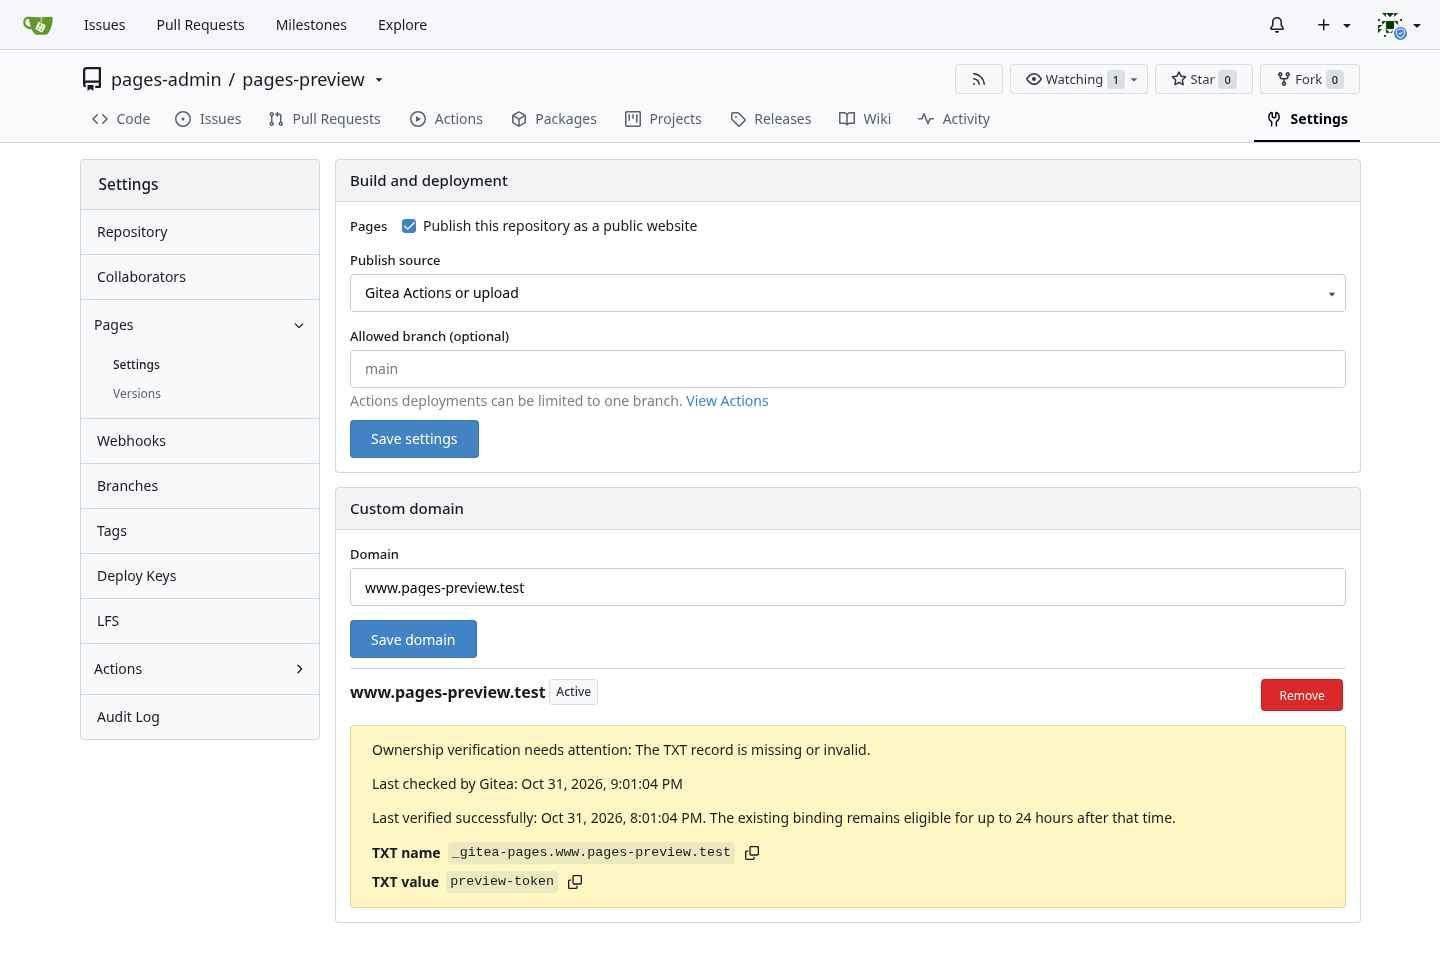
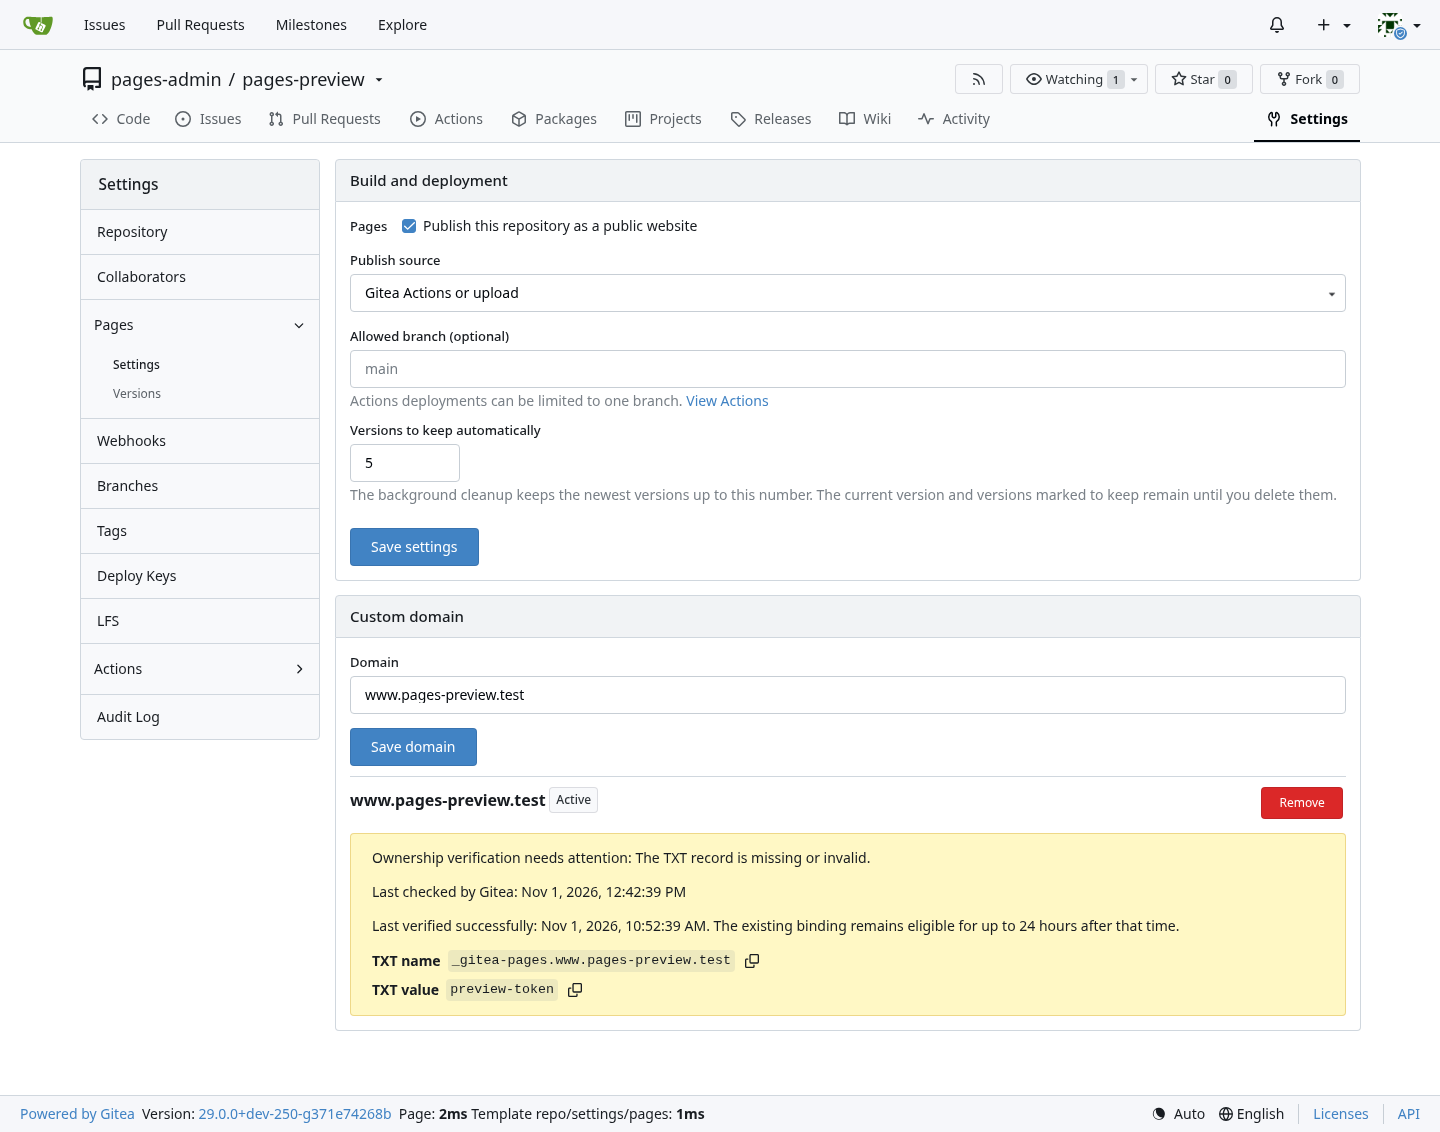
chore: update Pages version management
Update the implementation pointers, design documentation, PR description, and current UI screenshots for repository retention and version metadata.

Assisted-by: Codex:GPT-6

diff --git a/src/pages/implementation.md b/src/pages/implementation.md
@@ -47,7 +47,7 @@ Pages 使用 `github.com/go-acme/lego/v5` 实现 ACME，并通过 lego provider 
 ### 实现验收点
 
 - `Service` 与 `Publisher` 的职责可以独立测试，外部发布器无需重复同步和归档安全逻辑。
-- `Publisher.Restore` 以迭代器提供本机确认部署，大量站点不需要复制为完整切片。
+- `Publisher.Restore` 以迭代器提供本机确认部署，使恢复过程的额外内存保持稳定。
 - 队列项执行时读取最新事实，同一仓库调用串行，不同仓库按配置并行。
 - 工作目录在持锁后重建，已确认站点目录保持不变。
 - 发布错误保留旧入口；成功发布替代内容后只保留当前摘要目录。
@@ -60,26 +60,27 @@ Gitea 侧沿用现有分层：`models/pages` 负责五张表和稳定查询，`m
 
 `services/pages/address.go` 集中处理所有者 DNS 标签、实例根地址、自定义 Host 规范化和域名命名空间冲突。域名使用 `golang.org/x/net/idna` 查询映射、双向文字和 DNS 长度检查；Pages 服务只补充多标签、IP 地址和平台命名空间规则。仓库设置页、版本页、实例登记和域名登记因此使用同一套地址函数。
 
-`settings.go` 处理站点开关和自动发布来源，`publish.go` 处理成品检查、版本提交、恢复、删除和保留。两者复用同一个仓库站点锁和站点更新时间。成品写入存储前与选择当前版本的事务内使用同一套仓库和站点状态判断，使归档、删除或来源切换期间完成的旧任务得到一致结果。仓库关闭、改名、转移、所有者改名和删除通过对应服务事务推进站点时间，使仓库变化与 Pages 通知使用同一提交顺序。
+`settings.go` 处理站点开关、自动发布来源和仓库版本保留数量，`publish.go` 处理成品检查、版本提交、恢复和删除，`version_metadata.go` 处理版本注释与长期保留标记，`cleanup.go` 由计划任务执行版本清理。它们复用同一个仓库站点锁；只有会改变实例目标的操作推进站点时间。成品写入存储前与选择当前版本的事务内使用同一套仓库和站点状态判断，使归档、删除或来源切换期间完成的旧任务得到一致结果。仓库关闭、改名、转移、所有者改名和删除通过对应服务事务推进站点时间，使仓库变化与 Pages 通知使用同一提交顺序。
 
-`modules/setting` 保存归档大小、条目数、版本保留数、批量大小、TXT 周期和 DNS 地址等启动配置。`services/pages` 把资源字段组装为 `modules/pages.Limits`。内容使用 Gitea storage 抽象，临时上传使用 Gitea Dropzone 和临时上传模型，仓库提交使用现有锁抽象；实例凭据复用安全随机数、HTTP Authorization、SHA-256 和恒定时间比较工具。
+`modules/setting` 保存归档大小、条目数、批量大小、TXT 周期和 DNS 地址等启动配置；每个仓库的版本保留数量保存在 `pages_site`，让仓库管理员按回滚需求配置。`services/pages` 把资源字段组装为 `modules/pages.Limits`。内容使用 Gitea storage 抽象，临时上传使用 Gitea Dropzone 和临时上传模型，仓库提交使用现有锁抽象；实例凭据复用安全随机数、HTTP Authorization、SHA-256 和恒定时间比较工具。
 
-Pages 内容 API 和网页共用版本服务。版本列表按 ID 倒序使用 Gitea 标准分页，并批量读取当前页的 Actions 来源。设置页只读取来源、来源错误和域名配置；版本页展示摘要、首次来源、创建时间与 Current 状态，Current 可查看实例详情或删除，历史版本可恢复或删除。全局管理页使用标准管理表格显示实例 ID、公开根地址、最近通信时间和紧凑操作。
+Pages 内容 API 和网页共用版本服务。版本列表按 ID 倒序使用 Gitea 标准分页，并批量读取当前页的 Actions 来源。设置页读取来源、仓库保留数量、来源错误和域名配置；版本页展示摘要、首次来源、创建时间、注释、长期保留标记与 Current 状态。版本元数据通过同一服务和仓库锁修改，不产生同步更新；Current 可查看实例详情或删除，历史版本可恢复或删除。全局管理页使用标准管理表格显示实例 ID、公开根地址、最近通信时间和紧凑操作。
 
 实例创建和重置使用 POST 后重定向到 GET。一次性明文令牌暂存在当前管理员会话，首次 GET 显示并消费，刷新不会重复操作。管理页面复制原始令牌，运维把它写入 Pages YAML 的 `gitea.token`。
 
-Actions 成品提交创建或复用 Pages 版本，并在版本首次创建时保存来源运行 ID。版本页只在该运行仍然存在时提供来源链接；Actions 运行清理不影响版本、当前内容和实例部署。
+Actions 成品提交创建或复用 Pages 版本，并在版本首次创建时保存来源运行 ID。复用已有摘要会保留版本注释和长期保留标记。版本页只在该运行仍然存在时提供来源链接；Actions 运行清理不影响版本、当前内容和实例部署。
 
 ### 实现验收点
 
 - 模型、通用模块、业务服务和路由保持 Gitea 现有依赖方向。
 - 地址规范化、所有者编码、项目路径和命名空间冲突由同一服务模块处理。
-- 来源设置与版本操作各有一个事务入口，并复用站点锁与更新时间。
+- 来源设置、版本操作、元数据修改和后台清理复用站点锁；只有实例目标变化才推进站点时间。
 - 成品存储前和版本事务内使用相同的仓库、站点及来源状态判断。
 - 仓库生命周期变化和 Pages 状态在同一事务顺序中提交，失败时共同回滚。
 - Pages 成品存储、临时上传、锁、凭据和时间工具复用 Gitea 现有实现。
-- 设置页与版本页各自只加载所需数据；版本分页批量读取 Actions 来源，没有逐行查询。
+- 设置页与版本页各自只加载所需数据；版本分页批量读取 Actions 来源，没有逐行查询；注释和长期保留标记在版本列中显示。
 - Current、历史版本和最后一个版本都能按页面确认流程删除；Current 详情按实例显示当前结果。
+- 后台任务按仓库独立事务保留最新 N 个、Current 和长期保留版本；仓库事务失败在下次任务重试，对象删除失败形成的无引用残留由 storage doctor 处理。
 - 实例创建和重置重定向到 GET，一次性令牌只显示一次并可以复制到 YAML。
 - Actions 成品创建或复用版本并保存首次运行来源；运行清理不影响 Pages 版本和当前内容。
 

diff --git a/pr/page/README.md b/pr/page/README.md
@@ -1,18 +1,15 @@
-Adds repository Pages backed by the separately deployed [gitea-pages](https://github.com/ExplodingDragon/gitea-pages) service. Gitea manages repository settings, content versions, custom domains, registered instances, and deployment results. Each Pages instance synchronizes the current site state and keeps serving its last confirmed deployment while Gitea is unavailable.
+Adds repository Pages backed by the separately deployed [gitea-pages](https://github.com/ExplodingDragon/gitea-pages) service. Gitea manages publishing settings, content versions, domain ownership, registered instances, and deployment results. Keeping the serving process separate lets a site continue serving its last confirmed deployment during a temporary Gitea outage.
 
-## Behavior
+Sites can be published from a branch directory, Gitea Actions, or a web/API TAR.GZ upload. Repository administrators can annotate, retain, restore, and delete versions and set automatic retention. Project sites use `https://<owner>.<pages-domain>/<repository>/`; a repository named `.pages` provides the owner site at `https://<owner>.<pages-domain>/`.
 
-- Pages is disabled by default for each repository. Content can come from a branch directory or a Gitea Actions artifact, while TAR.GZ uploads remain available through the web UI and API with either source. Every artifact passes through the same bounded archive validation before it becomes current.
-- Project sites use `https://<owner>.<pages-domain>/<repository>/`. A repository named `.pages` provides the owner site at `https://<owner>.<pages-domain>/`.
-- Versions are deduplicated by digest and support pagination, restore, deletion, and configurable retention. An Actions-created version links to its originating workflow run while that run exists; removing the run does not remove the version or published site.
-- Custom domains use TXT ownership verification, and each Pages instance reports its own route result. The Pages service can serve plain HTTP, run behind a TLS-terminating reverse proxy, or manage HTTPS with [lego](https://github.com/go-acme/lego).
-- Pages sites are public, including sites built from private repositories. Making a public repository private disables its site until a repository administrator explicitly enables it again.
+Custom domains use TXT ownership verification and expose the deployment result from each Pages instance. Pages sites are public, including sites built from private repositories. Changing a public repository to private disables its site until a repository administrator enables it again.
 
 ## Screenshots
 
-![Repository Pages settings](https://raw.githubusercontent.com/ExplodingDragon/gitea-dev/main/pr/page/pages-settings.png?v=20261031)
-![Pages version history and deployment results](https://raw.githubusercontent.com/ExplodingDragon/gitea-dev/main/pr/page/pages-versions.png?v=20261031)
-![Pages publication workflow in Gitea Actions](https://raw.githubusercontent.com/ExplodingDragon/gitea-dev/main/pr/page/pages-actions.png?v=20261031)
-![Pages instance administration](https://raw.githubusercontent.com/ExplodingDragon/gitea-dev/main/pr/page/pages-instances.png?v=20261031)
+![Repository Pages settings](https://raw.githubusercontent.com/ExplodingDragon/gitea-dev/main/pr/page/pages-settings.png?v=20261101)
+![Pages versions and deployment results](https://raw.githubusercontent.com/ExplodingDragon/gitea-dev/main/pr/page/pages-versions.png?v=20261101)
+![Editing a Pages version](https://raw.githubusercontent.com/ExplodingDragon/gitea-dev/main/pr/page/pages-version-edit.png?v=20261101)
+![Pages publication workflow in Gitea Actions](https://raw.githubusercontent.com/ExplodingDragon/gitea-dev/main/pr/page/pages-actions.png?v=20261101)
+![Pages instance administration](https://raw.githubusercontent.com/ExplodingDragon/gitea-dev/main/pr/page/pages-instances.png?v=20261101)
 
 Related: https://github.com/go-gitea/gitea/issues/302, https://github.com/go-gitea/gitea/issues/23521, https://github.com/go-gitea/gitea/issues/28907

diff --git a/pr/page/REAMDE_zh.md b/pr/page/REAMDE_zh.md
@@ -1,18 +1,15 @@
-本变更为 Gitea 增加仓库 Pages，并由独立部署的 [gitea-pages](https://github.com/ExplodingDragon/gitea-pages) 服务提供网站。Gitea 管理仓库设置、内容版本、自定义域名、已登记实例和部署结果。每个 Pages 实例同步当前站点状态；Gitea 暂时不可用时，实例继续提供最后一次确认的部署。
+本变更为 Gitea 增加仓库 Pages，并由独立部署的 [gitea-pages](https://github.com/ExplodingDragon/gitea-pages) 服务提供网站。Gitea 管理发布设置、内容版本、域名所有权、已登记实例和部署结果。网站服务与 Gitea 分开运行，因此 Gitea 暂时不可用时仍可继续提供最后一次确认的部署。
 
-## 行为
+网站内容可以来自分支目录、Gitea Actions 或网页/API 上传的 TAR.GZ。仓库管理员可以为版本填写备注、永久保留、恢复和删除版本，并设置自动保留数量。项目站点使用 `https://<所有者>.<Pages 域名>/<仓库>/`；名称为 `.pages` 的仓库提供 `https://<所有者>.<Pages 域名>/` 所有者主页。
 
-- 每个仓库的 Pages 默认关闭。内容可以来自分支目录或 Gitea Actions 成品；无论选择哪一种来源，都可以通过网页或 API 上传 TAR.GZ。每个成品成为当前版本前都会经过同一套有资源上限的归档检查。
-- 项目站点使用 `https://<所有者>.<Pages 域名>/<仓库>/`；名称为 `.pages` 的仓库提供 `https://<所有者>.<Pages 域名>/` 所有者主页。
-- 版本按摘要复用，支持分页、恢复、删除和可配置的保留数量。由 Actions 创建的版本会在对应运行仍存在时链接到该运行；清理运行不会删除版本或已经发布的网站。
-- 自定义域名使用 TXT 所有权校验，每个 Pages 实例独立上报路由结果。Pages 服务可以直接提供 HTTP、在终止 TLS 的前置代理后运行，或通过 [lego](https://github.com/go-acme/lego) 自行管理 HTTPS。
-- Pages 网站为公开网站，包括从私有仓库生成的网站。公开仓库转为私有仓库时，Gitea 会关闭站点，仓库管理员明确重新启用后才恢复发布。
+自定义域名使用 TXT 所有权校验，并展示各 Pages 实例的部署结果。Pages 网站均可公开访问，包括由私有仓库生成的网站。公开仓库转为私有仓库时，Gitea 会关闭站点，仓库管理员重新启用后才恢复发布。
 
 ## 截图
 
-![仓库 Pages 设置](https://raw.githubusercontent.com/ExplodingDragon/gitea-dev/main/pr/page/pages-settings.png?v=20261031)
-![Pages 版本历史与部署结果](https://raw.githubusercontent.com/ExplodingDragon/gitea-dev/main/pr/page/pages-versions.png?v=20261031)
-![Gitea Actions 中的 Pages 发布工作流](https://raw.githubusercontent.com/ExplodingDragon/gitea-dev/main/pr/page/pages-actions.png?v=20261031)
-![Pages 实例管理](https://raw.githubusercontent.com/ExplodingDragon/gitea-dev/main/pr/page/pages-instances.png?v=20261031)
+![仓库 Pages 设置](https://raw.githubusercontent.com/ExplodingDragon/gitea-dev/main/pr/page/pages-settings.png?v=20261101)
+![Pages 版本与部署结果](https://raw.githubusercontent.com/ExplodingDragon/gitea-dev/main/pr/page/pages-versions.png?v=20261101)
+![编辑 Pages 版本](https://raw.githubusercontent.com/ExplodingDragon/gitea-dev/main/pr/page/pages-version-edit.png?v=20261101)
+![Gitea Actions 中的 Pages 发布工作流](https://raw.githubusercontent.com/ExplodingDragon/gitea-dev/main/pr/page/pages-actions.png?v=20261101)
+![Pages 实例管理](https://raw.githubusercontent.com/ExplodingDragon/gitea-dev/main/pr/page/pages-instances.png?v=20261101)
 
 相关内容：https://github.com/go-gitea/gitea/issues/302、https://github.com/go-gitea/gitea/issues/23521、https://github.com/go-gitea/gitea/issues/28907

diff --git a/src/pages/README.md b/src/pages/README.md
@@ -39,14 +39,14 @@ https://<owner>.<pages-instance>/       # <owner>/.pages
 
 自定义域名先由 Gitea 定期检查业务 TXT 所有权，Pages 也在本机持续检查。全局管理员通过 Gitea `[pages]` 配置统一设置两端是否要求这项条件；两端各自配置递归 DNS 和刷新周期，默认每 15 分钟检查一次。域名成功验证后，后续解析失败在最近成功后的 24 小时内保留当前入口，避免一次 DNS 故障立即中断网站；从未成功的域名不能启用。这不改变证书颁发机构的域名控制验证。Pages 自管 HTTPS 时，用户自定义域名使用 HTTP-01，默认域名使用 DNS-01，证书和私钥由该实例保存；前置代理模式的 TLS 由代理负责。
 
-Gitea 的两个 Pages 计划任务分别负责分支来源检查和业务 TXT 检查，最短周期为 1 分钟。Pages 的部署、归档展开、TXT 和证书维护在实例本地异步完成；访客请求只读取已经部署的本地内容。标准程序提供 HTTP、前置代理源站和 Pages 自管 HTTPS 三种责任模式。Pages 根包也可以作为 Go 依赖使用：同步和安全检查保持不变，使用者通过统一发布器把已检查内容接入自己的 Web 服务。网站成品只要求包含普通文件，不以 `index.html` 作为发布条件。
+Gitea 使用计划任务检查分支来源、业务 TXT 和仓库版本保留。分支与 TXT 检查最短周期为 1 分钟；版本清理默认每天执行并在 Gitea 启动后执行一次。Pages 的部署、归档展开、TXT 和证书维护在实例本地异步完成；访客请求只读取已经部署的本地内容。标准程序提供 HTTP、前置代理源站和 Pages 自管 HTTPS 三种责任模式。Pages 根包也可以作为 Go 依赖使用：同步和安全检查保持不变，使用者通过统一发布器把已检查内容接入自己的 Web 服务。网站成品只要求包含普通文件，不以 `index.html` 作为发布条件。
 
 ### 实现验收点
 
 - 文档入口能把一个实现问题定位到唯一的职责章节；交叉章节只引用最终行为，不复制同一套字段或流程。
 - 新仓库的 Pages 站点默认关闭，`.pages` 和普通仓库的地址、改名转移规则符合本章定义。
 - 两种自动发布方式与显式上传都能产生同一种 TAR.GZ，并分别显示成品准备、内容安装和地址发布结果。
-- Gitea 保留可配置数量的内容版本，历史版本可以恢复；实例只接收恢复后选定的当前摘要。
+- 每个仓库可以设置自动保留的最新版本数量；当前版本和标记长期保留的版本不受数量限制，历史版本可以恢复；实例只接收恢复后选定的当前摘要。
 - 每个登记实例都主动部署全部启用站点；访客请求只访问本机已部署内容。
 - Gitea 存储后端、Pages 本地状态、证书材料和路由配置按职责分离，Pages 不读取 Gitea 后端凭据。
 - 自定义域名业务 TXT、ACME 证书和实例入口结果分别可见，业务 TXT 关闭不会跳过 CA 自身的域名控制验证。
